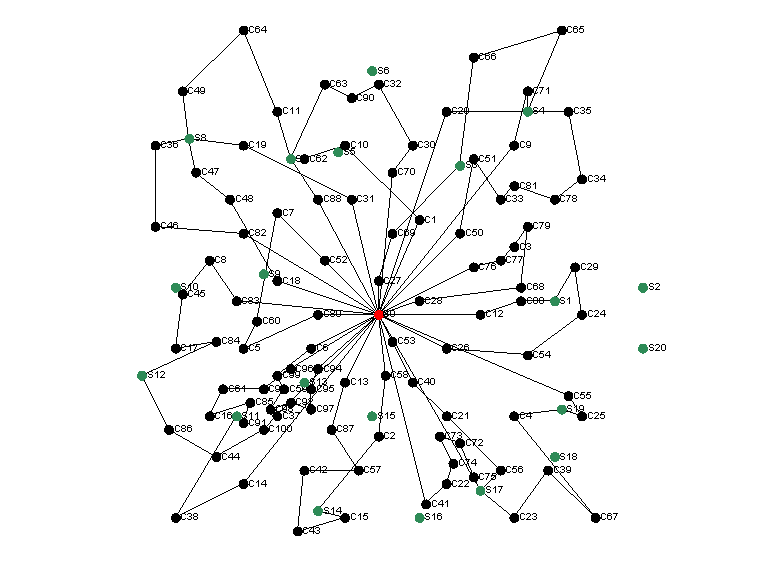
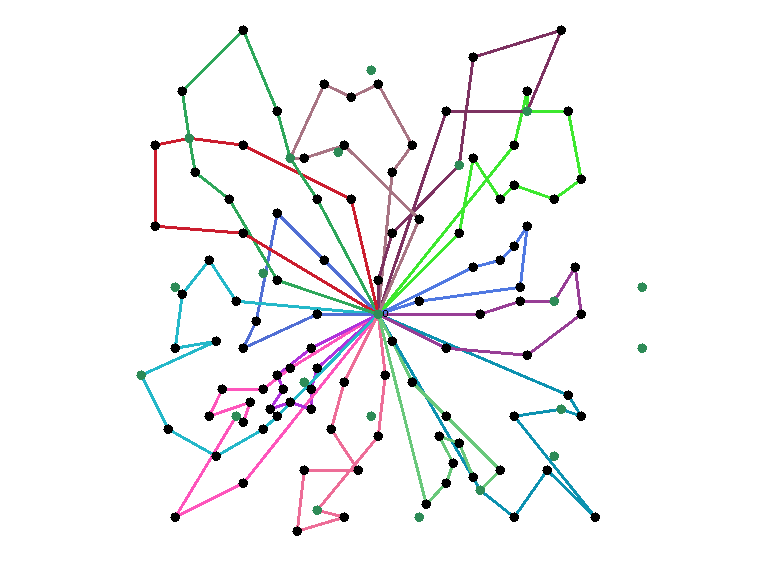
improve graph visualization

diff --git a/src/main/kotlin/at/ac/tuwien/otl/evrptw/EVRPTWSolutionVisualizer.kt b/src/main/kotlin/at/ac/tuwien/otl/evrptw/EVRPTWSolutionVisualizer.kt
@@ -2,9 +2,11 @@ package at.ac.tuwien.otl.evrptw
 
 import at.ac.tuwien.otl.evrptw.dto.EVRPTWInstance
 import at.ac.tuwien.otl.evrptw.dto.EVRPTWSolution
+import org.graphstream.graph.implementations.AbstractEdge
 import org.graphstream.graph.implementations.MultiGraph
 import org.graphstream.graph.implementations.MultiNode
 import org.graphstream.ui.graphicGraph.GraphicEdge
+import java.awt.Color
 import java.io.File
 
 /**
@@ -17,7 +19,7 @@ import java.io.File
  * @since 1.0.0
  */
 class EVRPTWSolutionVisualizer {
-    private var edgeIdCounter = 0
+    private var edgeIdCounter = 1000
 
     fun visualizeSolution(instance: EVRPTWInstance) {
         val solution = loadSolutionForInstance(instance)
@@ -40,7 +42,7 @@ class EVRPTWSolutionVisualizer {
             graph.addNode<MultiNode>(station.id.toString())
             val stationNode = graph.getNode<MultiNode>(station.id.toString())
             stationNode.setAttribute("xy", station.location.x, station.location.y)
-            stationNode.setAttribute("ui.label", station.name)
+//            stationNode.setAttribute("ui.label", station.name)
             stationNode.addAttribute("ui.style", "fill-color: #2E8B57;")
         }
 
@@ -49,13 +51,16 @@ class EVRPTWSolutionVisualizer {
             graph.addNode<MultiNode>(customer.id.toString())
             val customerNode = graph.getNode<MultiNode>(customer.id.toString())
             customerNode.setAttribute("xy", customer.location.x, customer.location.y)
-            customerNode.setAttribute("ui.label", customer.name)
+//            customerNode.setAttribute("ui.label", customer.name)
         }
 
         // plot routes
         for (route in solution.routes) {
+            val edgeColor = Color((Math.random() * 0x1000000).toInt())
             for (i in 0 until route.size - 1) {
                 graph.addEdge<GraphicEdge>((++edgeIdCounter).toString(), route[i].id, route[i + 1].id)
+                val edge = graph.getEdge<AbstractEdge>(edgeIdCounter.toString())
+                edge.setAttribute("ui.style", "size: 3px; fill-color: rgb(${edgeColor.red}, ${edgeColor.green}, ${edgeColor.blue});")
             }
         }
 
